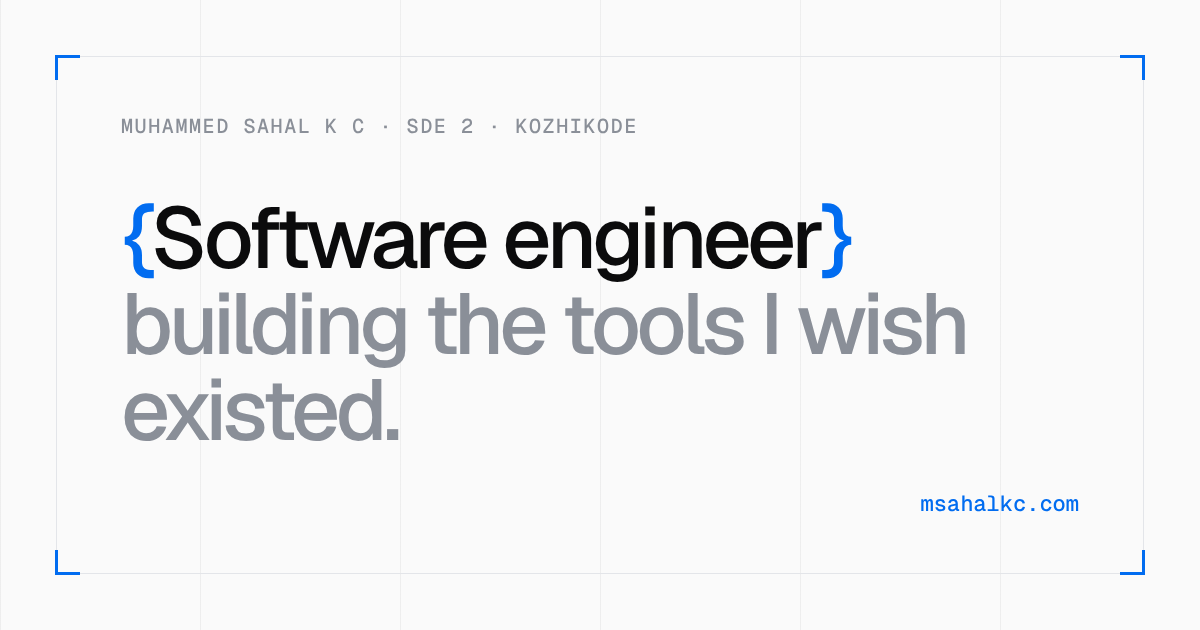
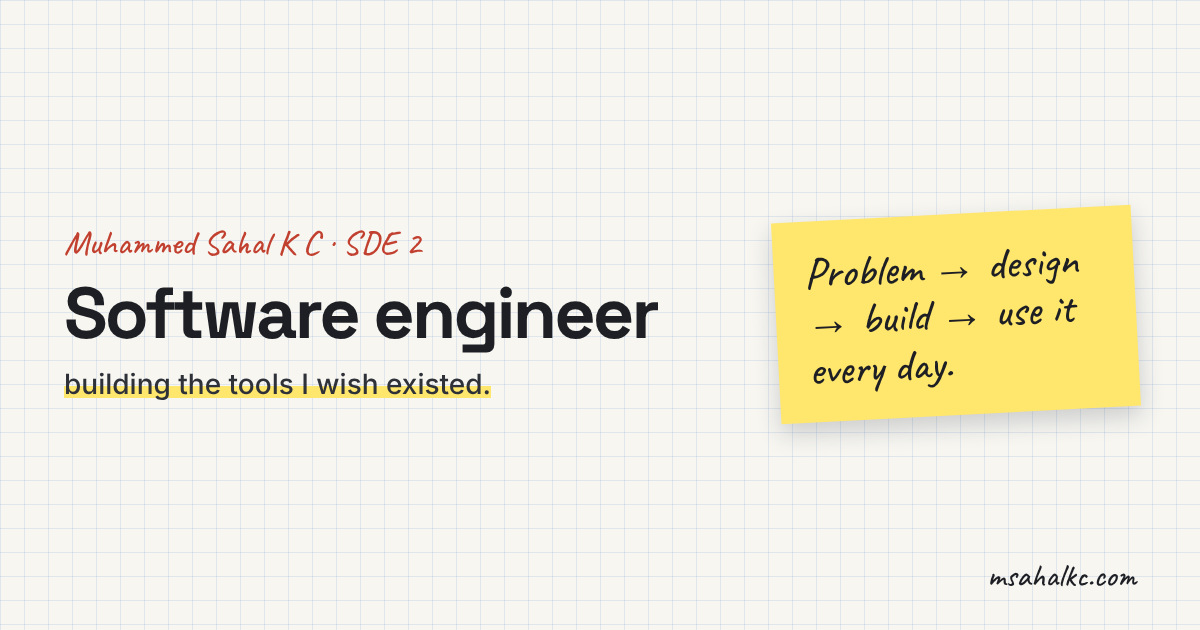
Add dark mode and per-project link previews
- Dark "notebook at night" theme: follows the system setting, with a toggle in the nav that is remembered.
- After each build, write dist/projects/<slug>.html with that project's title, description, canonical URL and preview image, so shared links preview the right project.
- New notebook-style preview images for the home page and each project (npm run og).

Claude-Session: https://claude.ai/code/session_01KEbiGfC6uPNJgoB4CbUh6T

diff --git a/src/styles/global.css b/src/styles/global.css
@@ -1,5 +1,5 @@
 /* Workshop notebook. Graph paper, taped screenshots, sticky notes, highlighter and handwritten asides.
-   Light theme only. Type: Space Grotesk (headings), Inter (body), Caveat (handwriting), JetBrains Mono (stack). */
+   Light by default; dark ("notebook at night") follows the system, or the saved choice from the nav toggle. Type: Space Grotesk (headings), Inter (body), Caveat (handwriting), JetBrains Mono (stack). */
 :root {
   --paper: #f7f6f1;
   --ink: #1d1f24;
@@ -15,8 +15,34 @@
   --ui: "Inter", "Helvetica Neue", Arial, sans-serif;
   --hand: "Caveat", "Segoe Print", "Bradley Hand", cursive;
   --mono: "JetBrains Mono", ui-monospace, "SFMono-Regular", Menlo, monospace;
+  --card: #ffffff;
+  --photo: #ffffff;
+  --photo-ink: #4b4f58;
+  --note-ink: #1d1f24;
+  --on-red: #ffffff;
+  --nav-bg: rgba(247, 246, 241, 0.94);
+  --shadow: rgba(30, 40, 60, 0.16);
   color-scheme: light;
 }
+/* Dark tokens, defined twice: once for the system setting (unless light was chosen), once for an explicit choice. */
+@media (prefers-color-scheme: dark) {
+  :root:not([data-theme="light"]) {
+    --paper: #17181c; --ink: #ecebe5; --ink-2: #cfcdc5; --muted: #a4a39b; --line: #2e3036;
+    --grid: rgba(140, 175, 235, 0.08); --red: #ff8a73; --yellow: #ffe66d; --blue-note: #cfe2ff;
+    --tape: rgba(214, 200, 168, 0.8); --card: #1f2025; --photo: #efede6; --photo-ink: #4b4f58;
+    --on-red: #17181c; --nav-bg: rgba(23, 24, 28, 0.92); --shadow: rgba(0, 0, 0, 0.45);
+    color-scheme: dark;
+  }
+  :root:not([data-theme="light"]) .hl { background: linear-gradient(transparent 58%, rgba(255, 214, 64, 0.38) 58%, rgba(255, 214, 64, 0.38) 92%, transparent 92%); }
+}
+:root[data-theme="dark"] {
+  --paper: #17181c; --ink: #ecebe5; --ink-2: #cfcdc5; --muted: #a4a39b; --line: #2e3036;
+  --grid: rgba(140, 175, 235, 0.08); --red: #ff8a73; --yellow: #ffe66d; --blue-note: #cfe2ff;
+  --tape: rgba(214, 200, 168, 0.8); --card: #1f2025; --photo: #efede6; --photo-ink: #4b4f58;
+  --on-red: #17181c; --nav-bg: rgba(23, 24, 28, 0.92); --shadow: rgba(0, 0, 0, 0.45);
+  color-scheme: dark;
+}
+:root[data-theme="dark"] .hl { background: linear-gradient(transparent 58%, rgba(255, 214, 64, 0.38) 58%, rgba(255, 214, 64, 0.38) 92%, transparent 92%); }
 
 * { box-sizing: border-box; }
 html { scroll-behavior: smooth; scroll-padding-top: 80px; }
@@ -52,20 +78,21 @@ h1, h2, h3 { margin: 0; font-family: var(--head); font-weight: 700; text-wrap: b
   transition: background-color 0.15s, color 0.15s, border-color 0.15s;
 }
 .btn-dark { background: var(--ink); color: var(--paper); }
-.btn-dark:hover { background: var(--red); border-color: var(--red); color: #fff; }
+.btn-dark:hover { background: var(--red); border-color: var(--red); color: var(--on-red); }
 .btn-line { background: transparent; color: var(--ink); }
 .btn-line:hover { color: var(--red); border-color: var(--red); }
-.sticky { background: var(--yellow); padding: 18px 20px; box-shadow: 0 8px 18px rgba(30, 40, 60, 0.18); }
+.sticky { background: var(--yellow); color: var(--note-ink); padding: 18px 20px; box-shadow: 0 8px 18px var(--shadow); }
+.sticky a { color: #a3311f; }
 .sticky-blue { background: var(--blue-note); }
 
 /* taped photo */
 .photo {
-  position: relative; margin: 0; background: #fff; padding: 12px 12px 14px;
-  box-shadow: 0 1px 1px rgba(0, 0, 0, 0.08), 0 10px 24px rgba(30, 40, 60, 0.16);
+  position: relative; margin: 0; background: var(--photo); padding: 12px 12px 14px;
+  box-shadow: 0 1px 1px rgba(0, 0, 0, 0.08), 0 10px 24px var(--shadow);
   transform: rotate(var(--tilt, 0deg)); transition: transform 0.2s ease;
 }
 .photo img { display: block; width: 100%; height: auto; aspect-ratio: 16 / 10; object-fit: cover; background: var(--line); }
-.photo figcaption { margin-top: 8px; font-size: 21px; line-height: 1.2; color: var(--muted); }
+.photo figcaption { margin-top: 8px; font-size: 21px; line-height: 1.2; color: var(--photo-ink); }
 .tape {
   position: absolute; top: -14px; left: 50%; width: 120px; height: 30px; margin-left: -60px;
   background: var(--tape); box-shadow: 0 1px 2px rgba(0, 0, 0, 0.1); transform: rotate(-3deg);
@@ -74,13 +101,16 @@ h1, h2, h3 { margin: 0; font-family: var(--head); font-weight: 700; text-wrap: b
 .two-tapes .tape-r { left: auto; right: 8%; transform: rotate(3deg); }
 
 /* nav */
-.nav { position: sticky; top: env(safe-area-inset-top, 0px); z-index: 20; background: rgba(247, 246, 241, 0.94); backdrop-filter: blur(6px); -webkit-backdrop-filter: blur(6px); border-bottom: 1px solid var(--line); }
+.nav { position: sticky; top: env(safe-area-inset-top, 0px); z-index: 20; background: var(--nav-bg); backdrop-filter: blur(6px); -webkit-backdrop-filter: blur(6px); border-bottom: 1px solid var(--line); }
 .nav .wrap { display: flex; align-items: center; justify-content: space-between; gap: 16px; min-height: 60px; }
 .brand { font-size: 32px; font-weight: 700; text-decoration: none; line-height: 1; }
 .nav nav { display: flex; align-items: center; gap: 24px; }
 .nav nav a { font-size: 15px; font-weight: 500; color: var(--muted); text-decoration: none; }
 .nav nav a:hover { color: var(--red); }
 .nav nav a.keep { color: var(--red); }
+.theme { width: 36px; height: 36px; display: grid; place-items: center; border: 2px solid var(--ink); border-radius: 50%; background: transparent; color: var(--ink); cursor: pointer; }
+.theme:hover { color: var(--red); border-color: var(--red); }
+.theme svg { width: 16px; height: 16px; }
 @media (max-width: 600px) { .nav nav a:not(.keep) { display: none; } }
 
 /* sections */
@@ -120,7 +150,6 @@ main { display: flex; flex-direction: column; gap: 104px; padding-block: 64px 96
 .more { font-family: var(--head); font-weight: 700; font-size: 15px; margin-top: 4px; }
 .notice { align-self: flex-start; max-width: 540px; transform: rotate(-1deg); }
 .notice p { font-size: 15.5px; line-height: 1.55; }
-.notice a { color: var(--red); }
 
 /* earlier projects */
 .rows { list-style: none; margin: 0; padding: 0; border-top: 2px solid var(--ink); }
@@ -147,7 +176,7 @@ main { display: flex; flex-direction: column; gap: 104px; padding-block: 64px 96
 
 /* writing */
 .posts { display: grid; grid-template-columns: repeat(auto-fit, minmax(min(100%, 320px), 1fr)); gap: 24px; }
-.post { background: #fff; border: 1px solid var(--line); border-radius: 6px; padding: 20px; display: flex; flex-direction: column; gap: 8px; text-decoration: none; box-shadow: 0 6px 16px rgba(30, 40, 60, 0.08); transition: transform 0.15s, box-shadow 0.15s; }
+.post { background: var(--card); border: 1px solid var(--line); border-radius: 6px; padding: 20px; display: flex; flex-direction: column; gap: 8px; text-decoration: none; box-shadow: 0 6px 16px var(--shadow); transition: transform 0.15s, box-shadow 0.15s; }
 .post:hover { transform: translateY(-3px); box-shadow: 0 12px 24px rgba(30, 40, 60, 0.12); }
 .post:hover h3 { color: var(--red); }
 .post .when { font-size: 20px; color: var(--red); line-height: 1.2; }
@@ -183,7 +212,7 @@ footer .sig { font-size: 28px; color: var(--ink); }
 .story p { font-size: 17.5px; line-height: 1.7; color: var(--ink-2); }
 .decisions { display: flex; flex-direction: column; gap: 22px; }
 .decisions ol { list-style: none; margin: 0; padding: 0; display: grid; grid-template-columns: repeat(auto-fit, minmax(min(100%, 260px), 1fr)); gap: 20px; }
-.decisions li { background: #fff; border: 1px solid var(--line); border-radius: 6px; padding: 20px; display: flex; flex-direction: column; gap: 10px; box-shadow: 0 6px 16px rgba(30, 40, 60, 0.08); }
+.decisions li { background: var(--card); border: 1px solid var(--line); border-radius: 6px; padding: 20px; display: flex; flex-direction: column; gap: 10px; box-shadow: 0 6px 16px var(--shadow); }
 .decisions .num { font-size: 34px; line-height: 1; color: var(--red); }
 .decisions p { font-size: 15.5px; line-height: 1.6; }
 .decisions code { font-family: var(--mono); font-size: 13.5px; color: var(--red); }

diff --git a/index.html b/index.html
@@ -11,7 +11,8 @@
     <meta name="author" content="Muhammed Sahal K C" />
     <meta name="robots" content="index, follow" />
     <link rel="canonical" href="https://msahalkc.com/" />
-    <meta name="theme-color" content="#f7f6f1" />
+    <meta name="theme-color" content="#f7f6f1" media="(prefers-color-scheme: light)" />
+    <meta name="theme-color" content="#17181c" media="(prefers-color-scheme: dark)" />
 
     <link rel="icon" href="/favicon.ico" sizes="48x48" />
     <link rel="icon" type="image/png" sizes="32x32" href="/favicon-32.png" />
@@ -47,6 +48,13 @@
     <link rel="preconnect" href="https://fonts.gstatic.com" crossorigin />
     <link rel="stylesheet" href="https://fonts.googleapis.com/css2?family=Caveat:wght@500;700&family=Inter:wght@400;500;600&family=JetBrains+Mono:wght@400;500&family=Space+Grotesk:wght@500;700&display=swap" />
 
+    <script>
+      // Apply a saved theme before first paint to avoid a flash.
+      try {
+        var t = localStorage.getItem("theme");
+        if (t === "dark" || t === "light") document.documentElement.setAttribute("data-theme", t);
+      } catch (e) {}
+    </script>
     <script defer src="https://cloud.umami.is/script.js" data-website-id="bcc43c1f-1027-48b2-b819-b5d6d0d8387b"></script>
   </head>
   <body>

diff --git a/src/lib/usePageMeta.jsx b/src/lib/usePageMeta.jsx
@@ -9,8 +9,9 @@ const setMeta = (selector, attr, value) => {
 };
 
 // Keeps the tab title, description and canonical URL in step with the current page.
-// index.html holds the home page values, so crawlers that don't run JS still get those.
-const usePageMeta = ({ title, description, path = "/" }) => {
+// index.html holds the home page values; scripts/prerender-meta.mjs bakes each project's values into
+// dist/projects/<slug>.html for crawlers that don't run JS.
+const usePageMeta = ({ title, description, path = "/", image = "/og.png" }) => {
   useEffect(() => {
     const fullTitle = title ? `${title} · Muhammed Sahal K C` : DEFAULT_TITLE;
     document.title = fullTitle;
@@ -18,8 +19,9 @@ const usePageMeta = ({ title, description, path = "/" }) => {
     setMeta('meta[property="og:title"]', "content", fullTitle);
     setMeta('meta[property="og:description"]', "content", description);
     setMeta('meta[property="og:url"]', "content", `${SITE}${path}`);
+    setMeta('meta[property="og:image"]', "content", `${SITE}${image}`);
     setMeta('link[rel="canonical"]', "href", `${SITE}${path}`);
-  }, [title, description, path]);
+  }, [title, description, path, image]);
 };
 
 export default usePageMeta;

diff --git a/src/components/ThemeToggle.jsx b/src/components/ThemeToggle.jsx
@@ -1,0 +1,27 @@
+// index.html applies the saved theme before first paint; this only flips it.
+const currentTheme = () =>
+  document.documentElement.getAttribute("data-theme") ||
+  (window.matchMedia("(prefers-color-scheme: dark)").matches ? "dark" : "light");
+
+const ThemeToggle = () => {
+  const toggle = () => {
+    const next = currentTheme() === "dark" ? "light" : "dark";
+    document.documentElement.setAttribute("data-theme", next);
+    try {
+      localStorage.setItem("theme", next);
+    } catch {
+      // Storage can be blocked; the toggle still works for this visit.
+    }
+  };
+
+  return (
+    <button className="theme" type="button" onClick={toggle} aria-label="Switch colour theme">
+      <svg viewBox="0 0 24 24" fill="none" stroke="currentColor" strokeWidth="2" aria-hidden="true">
+        <circle cx="12" cy="12" r="8" />
+        <path d="M12 4a8 8 0 0 1 0 16z" fill="currentColor" />
+      </svg>
+    </button>
+  );
+};
+
+export default ThemeToggle;

diff --git a/src/components/ProjectPage.jsx b/src/components/ProjectPage.jsx
@@ -12,7 +12,12 @@ const ExternalLink = ({ href, text, accent }) => (
 );
 
 const Project = ({ product, prev, next }) => {
-  usePageMeta({ title: product.name, description: product.tagline, path: `/projects/${product.slug}` });
+  usePageMeta({
+    title: product.name,
+    description: product.tagline,
+    path: `/projects/${product.slug}`,
+    image: `/og/${product.slug}.png`,
+  });
 
   return (
     <Layout>

diff --git a/src/components/Nav.jsx b/src/components/Nav.jsx
@@ -1,5 +1,6 @@
 import { Link, useLocation } from "react-router-dom";
 import { nav, site } from "../data/content";
+import ThemeToggle from "./ThemeToggle";
 
 const Nav = () => {
   const onHome = useLocation().pathname === "/";
@@ -16,6 +17,7 @@ const Nav = () => {
               {item.label}
             </a>
           ))}
+          <ThemeToggle />
         </nav>
       </div>
     </header>

diff --git a/CLAUDE.md b/CLAUDE.md
@@ -6,15 +6,16 @@ Quick reference so the code doesn't need re-reading. Update the relevant line wh
 - Vite + React, react-router-dom 6 (`src/main.jsx`). Routes: `/` (App), `/projects/:slug` (ProjectPage), `*` (NotFound). Netlify sends every path to index.html.
 - Home sections in order: Hero → Projects → Earlier projects (Work.jsx) → Experience → Writing → Contact. Nav anchors: `#projects #experience #writing #contact`; on other pages the nav links to `/#id`.
 - All copy: `src/data/content.jsx` (`site`, `nav`, `heroNote`, `products`, `work`, `experience`). Components are presentational.
-- Look: "workshop notebook" (approved mockup E). Graph-paper body, taped screenshots (`Photo.jsx`), sticky notes, highlighter (`.hl`), handwritten asides (`.note`, Caveat). Fonts: Space Grotesk, Inter, Caveat, JetBrains Mono (Google Fonts in index.html). Light theme only; tokens on `:root` in `src/styles/global.css`.
+- Look: "workshop notebook" (approved mockup E). Graph-paper body, taped screenshots (`Photo.jsx`), sticky notes, highlighter (`.hl`), handwritten asides (`.note`, Caveat). Fonts: Space Grotesk, Inter, Caveat, JetBrains Mono (Google Fonts in index.html). Tokens on `:root` in `src/styles/global.css`; dark ("notebook at night") redefines them under `prefers-color-scheme: dark` (unless `data-theme="light"`) and again under `[data-theme="dark"]`. Toggle: `ThemeToggle.jsx` in the nav, saved in localStorage, applied before paint by a script in index.html. Photos and sticky notes stay light in dark mode.
 - Wording: plain website terms (Projects, Experience, Writing, Contact). No game or comic wording. Don't feature the Kannur → Kuttippuram → Kozhikode route.
-- Per-page title/description/canonical: `src/lib/usePageMeta.jsx` (hooks live in .jsx so Jest's babel transform loads them).
+- Per-page title/description/canonical/og:image in the browser: `src/lib/usePageMeta.jsx` (hooks live in .jsx so Jest's babel transform loads them).
+- Link previews for crawlers: `npm run build` → postbuild `scripts/prerender-meta.mjs` writes `dist/projects/<slug>.html` (index.html with that project's meta). Preview images: `public/og.png` (home) and `public/og/<slug>.png`, made by `npm run og` (`scripts/make-og.mjs`, needs Playwright; run by hand after adding/renaming a project). Both scripts read content.jsx via `scripts/load-content.mjs` (esbuild).
 
 ## Products
 - `products[]` fields: `id, slug, featured?, note (project-page sticky), scribble (card caption), tilt, label, name, tagline, links[{href,text,accent}], shot{src,alt,caption}, why, what, listLabel, list[], stack`.
 - Home: one card per product linking to `/projects/<slug>`. The `featured` product is the photo in the hero.
 - Project page (`ProjectPage.jsx`): back link, head + sticky, taped screenshot, Why / What, numbered decisions, stack, previous/next by array order.
-- Screenshots: `public/projects/<slug>.webp`, 1600×1000.
+- Screenshots: `public/projects/<slug>.webp`, 1600×1000. New project: add it to `products[]`, add the screenshot, run `npm run og`.
 - Order: Asset Build, ExtenD, Adahly (featured), Simple Header Editor.
 - "Heads up" note in `Projects.jsx`: only Asset Build and ExtenD are single-user.
 

diff --git a/README.md b/README.md
@@ -10,7 +10,8 @@ Hero → Projects → Earlier projects → Experience → Writing → Contact. E
 
 - Page copy, including each project page: `src/data/content.jsx`
 - Project screenshots: `public/projects/` (1600×1000 webp)
-- Social preview and icons: `public/og.png`, `public/favicon*`, `public/apple-touch-icon.png`
+- Link preview images: `public/og.png` and `public/og/<slug>.png`. Regenerate with `npm run og` (needs Playwright) after adding or renaming a project.
+- Icons: `public/favicon*`, `public/apple-touch-icon.png`
 
 ## Medium posts
 
@@ -23,5 +24,5 @@ npm install
 npm run dev       # http://localhost:5173
 npm test
 npm run lint
-npm run build     # fetches Medium posts, then builds to dist/
+npm run build     # fetches Medium posts, builds to dist/, then writes per-project preview pages
 ```
